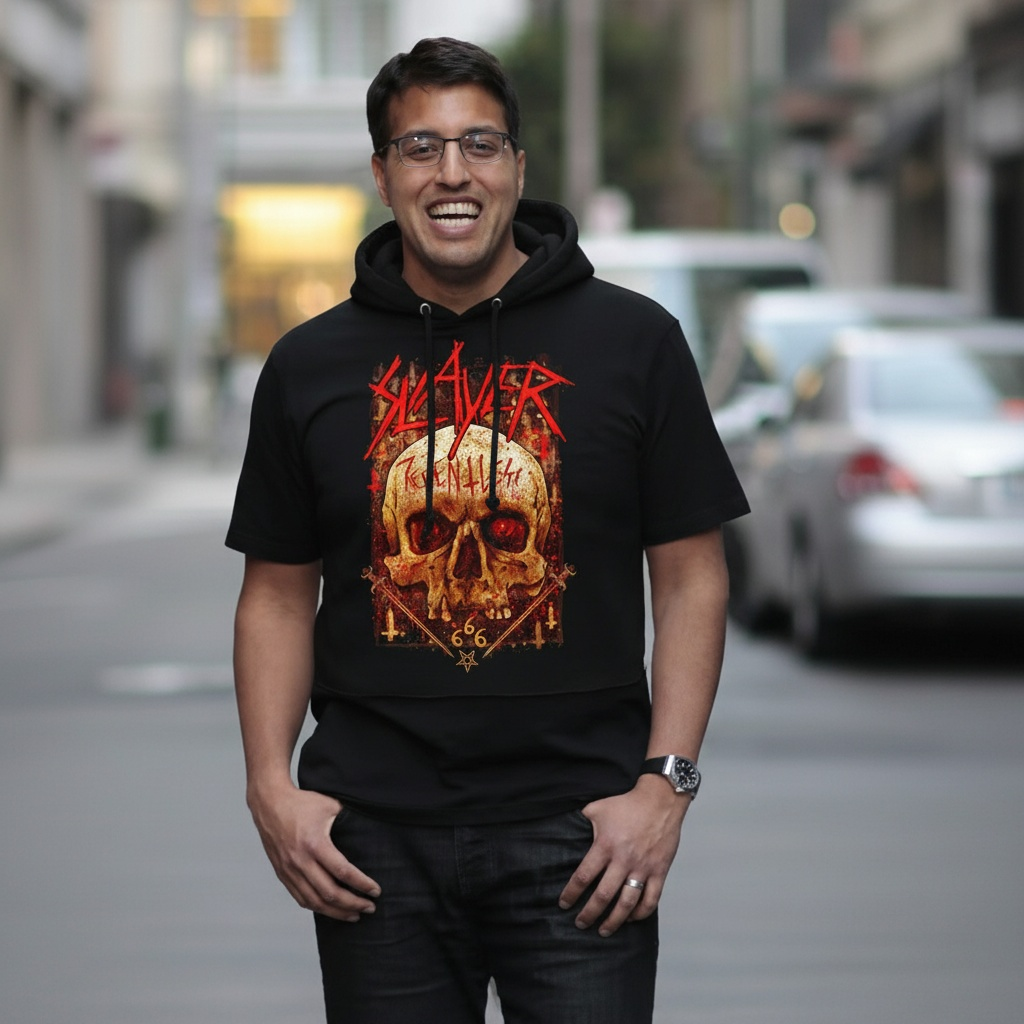
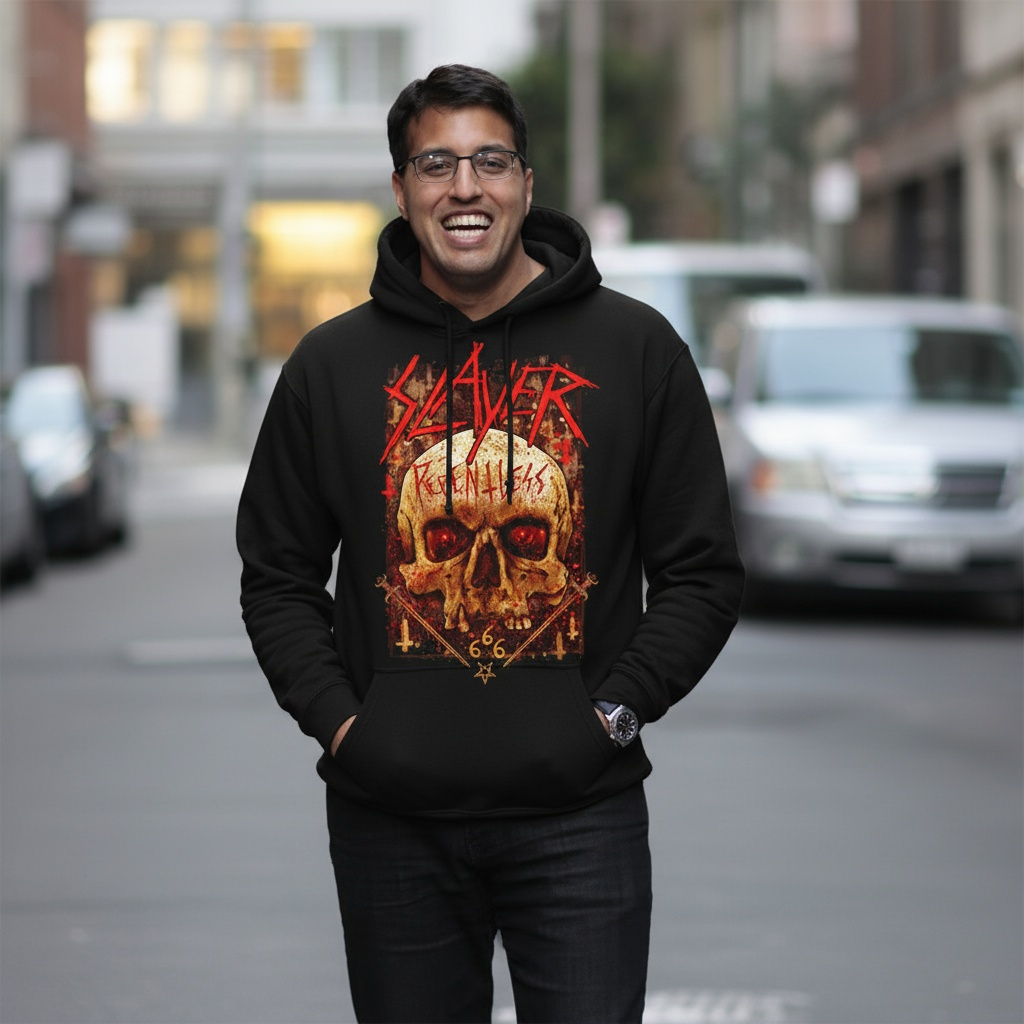
updates

diff --git a/src/App.js b/src/App.js
@@ -1801,6 +1801,10 @@ const AutobotApp = () => {
               basePrice: 120, 
               brand: 'Slayer',
               image: `${process.env.PUBLIC_URL}/Naveen-Slayer-Drop/naveen-slayer-hoodie.jpeg`,
+              images: [
+                `${process.env.PUBLIC_URL}/Naveen-Slayer-Drop/naveen-slayer-hoodie.jpeg`,
+                `${process.env.PUBLIC_URL}/Naveen-Slayer-Drop/magma lord hoodie product shot.webp`
+              ],
               size: 'Medium',
               available: true
             },
@@ -1809,6 +1813,10 @@ const AutobotApp = () => {
               basePrice: 120, 
               brand: 'Slayer',
               image: `${process.env.PUBLIC_URL}/Naveen-Slayer-Drop/naveen-slayer-hoodie-red.jpg`,
+              images: [
+                `${process.env.PUBLIC_URL}/Naveen-Slayer-Drop/naveen-slayer-hoodie-red.jpg`,
+                `${process.env.PUBLIC_URL}/Naveen-Slayer-Drop/eagloe marron hodie product shot.webp`
+              ],
               size: 'Medium',
               available: true
             },
@@ -1817,6 +1825,10 @@ const AutobotApp = () => {
               basePrice: 65, 
               brand: 'Slayer',
               image: `${process.env.PUBLIC_URL}/Naveen-Slayer-Drop/naveen-slayer-tank-top.jpeg`,
+              images: [
+                `${process.env.PUBLIC_URL}/Naveen-Slayer-Drop/naveen-slayer-tank-top.jpeg`,
+                `${process.env.PUBLIC_URL}/Naveen-Slayer-Drop/hell awaits product shot.webp`
+              ],
               size: 'Medium',
               available: true
             }
@@ -2135,8 +2147,21 @@ const AutobotApp = () => {
       const subtotalAmount = items.reduce((sum, product) => sum + product.price, 0);
       const shippingTotal = items.reduce((sum, product) => sum + (product.shipping || 8), 0);
       const taxTotal = items.reduce((sum, product) => sum + Math.round(product.price * 0.08), 0);
-      const blinkFee = Math.round(subtotalAmount * 0.03); // 3% Blink fee
-      const grandTotal = subtotalAmount + shippingTotal + taxTotal + blinkFee;
+      const serviceFee = Math.round(subtotalAmount * 0.03); // 3% service fee
+      const grandTotal = subtotalAmount + shippingTotal + taxTotal + serviceFee;
+      
+      // Check if any items are Naveen Slayer products for credit card message
+      const hasNaveenSlayerProducts = items.some(product => 
+        product.brand === 'Slayer' || 
+        product.title?.includes('MAGMA LORD') || 
+        product.title?.includes('Eagle Maroon') || 
+        product.title?.includes('Hell Awaits')
+      );
+      
+      // Add credit card message for Naveen Slayer group purchases
+      if (hasNaveenSlayerProducts) {
+        addAutobotMessage("Using credit card ending in **** 5732.");
+      }
       
       // Create order summary message
       let orderSummary = "🛍 **Your order is on its way.**\n\n";
@@ -2150,7 +2175,7 @@ const AutobotApp = () => {
       orderSummary += `Subtotal: $${subtotalAmount}\n`;
       orderSummary += `Shipping: $${shippingTotal}\n`;
       orderSummary += `Tax: $${taxTotal}\n`;
-      orderSummary += `Blink Fee (3%): $${blinkFee}\n`;
+      orderSummary += `Service Fee: $${serviceFee}\n`;
       orderSummary += `**Total: $${grandTotal}**\n\n`;
       orderSummary += `Estimated delivery: Tomorrow\n`;
       orderSummary += `Just message me if you need to make any changes. You have 3 minutes until the order is placed.`;
@@ -2160,7 +2185,8 @@ const AutobotApp = () => {
         subtotal: subtotalAmount,
         shipping: shippingTotal,
         tax: taxTotal,
-        blinkFee: blinkFee,
+        serviceFee: serviceFee,
+        silverFee: serviceFee, // Add silverFee for display compatibility
         total: grandTotal,
         timeLimit: 30,
         originalSearchResults: item.originalSearchResults || items,
@@ -4672,6 +4698,10 @@ const ChatMessage = ({ message, onPurchaseIntent, onConfirmPurchase, onUserRespo
                       shipping: 5,
                       brand: 'Slayer',
                       image: `${process.env.PUBLIC_URL}/Naveen-Slayer-Drop/naveen-slayer-hoodie.jpeg`,
+                      images: [
+                        `${process.env.PUBLIC_URL}/Naveen-Slayer-Drop/naveen-slayer-hoodie.jpeg`,
+                        `${process.env.PUBLIC_URL}/Naveen-Slayer-Drop/magma lord hoodie product shot.webp`
+                      ],
                       size: 'Medium',
                       available: true
                     },
@@ -4681,6 +4711,10 @@ const ChatMessage = ({ message, onPurchaseIntent, onConfirmPurchase, onUserRespo
                       shipping: 5,
                       brand: 'Slayer',
                       image: `${process.env.PUBLIC_URL}/Naveen-Slayer-Drop/naveen-slayer-hoodie-red.jpg`,
+                      images: [
+                        `${process.env.PUBLIC_URL}/Naveen-Slayer-Drop/naveen-slayer-hoodie-red.jpg`,
+                        `${process.env.PUBLIC_URL}/Naveen-Slayer-Drop/eagloe marron hodie product shot.webp`
+                      ],
                       size: 'Medium',
                       available: true
                     },
@@ -4690,6 +4724,23 @@ const ChatMessage = ({ message, onPurchaseIntent, onConfirmPurchase, onUserRespo
                       shipping: 5,
                       brand: 'Slayer',
                       image: `${process.env.PUBLIC_URL}/Naveen-Slayer-Drop/naveen-slayer-tank-top.jpeg`,
+                      images: [
+                        `${process.env.PUBLIC_URL}/Naveen-Slayer-Drop/naveen-slayer-tank-top.jpeg`,
+                        `${process.env.PUBLIC_URL}/Naveen-Slayer-Drop/hell awaits product shot.webp`
+                      ],
+                      size: 'Medium',
+                      available: true
+                    },
+                    {
+                      title: 'Hell Awaits T-shirt',
+                      price: 45,
+                      shipping: 5,
+                      brand: 'Slayer',
+                      image: `${process.env.PUBLIC_URL}/Naveen-Slayer-Drop/hell-awaits-tshirt.jpeg`,
+                      images: [
+                        `${process.env.PUBLIC_URL}/Naveen-Slayer-Drop/hell-awaits-tshirt.jpeg`,
+                        `${process.env.PUBLIC_URL}/Naveen-Slayer-Drop/Slayer_Hell_Awaits_Green_Oil_Washed_T-Shirt-product shot.webp`
+                      ],
                       size: 'Medium',
                       available: true
                     }
@@ -5250,6 +5301,8 @@ const WebViewInterface = ({ data, onClose, onPurchaseIntent }) => {
   const [selectedItems, setSelectedItems] = useState([]);
   const [undoTimers, setUndoTimers] = useState({}); // Track countdown timers for each item
   const [showProductShots, setShowProductShots] = useState({}); // Track which items are showing product shots
+  const [purchasedCount, setPurchasedCount] = useState(0); // Track total purchased items for Naveen Slayer
+  const [purchasedItems, setPurchasedItems] = useState([]); // Track all purchased items for group order
 
   // Toggle between regular image and product shot
   const toggleProductShot = (index) => {
@@ -5257,6 +5310,12 @@ const WebViewInterface = ({ data, onClose, onPurchaseIntent }) => {
       ...prev,
       [index]: !prev[index]
     }));
+  };
+
+  // Handle purchase made in Naveen Slayer products
+  const handlePurchaseMade = (itemData) => {
+    setPurchasedCount(prev => prev + 1);
+    setPurchasedItems(prev => [...prev, itemData]);
   };
 
   useEffect(() => {
@@ -5535,6 +5594,11 @@ const WebViewInterface = ({ data, onClose, onPurchaseIntent }) => {
                         productData={product}
                         hideNavigation={true}
                         compact={true}
+                        onClose={onClose}
+                        onPurchaseIntent={onPurchaseIntent}
+                        purchaseCount={purchasedCount}
+                        onPurchaseMade={handlePurchaseMade}
+                        purchasedItems={purchasedItems}
                       />
                     </div>
                   ))}

diff --git a/src/ProductComponentTest.js b/src/ProductComponentTest.js
@@ -1,7 +1,7 @@
 import React, { useState } from 'react';
 import { motion, AnimatePresence } from 'framer-motion';
 
-const ProductComponentTest = ({ productData = null, hideNavigation = false, compact = false }) => {
+const ProductComponentTest = ({ productData = null, hideNavigation = false, compact = false, onClose = null, purchaseCount = 1, onPurchaseIntent = null, onPurchaseMade = null, purchasedItems = [] }) => {
   const [selectedColor, setSelectedColor] = useState('black');
   const [currentImageIndex, setCurrentImageIndex] = useState(0);
   const [showSizeSelector, setShowSizeSelector] = useState(false);
@@ -106,7 +106,7 @@ const ProductComponentTest = ({ productData = null, hideNavigation = false, comp
       price: productData.price,
       shipping: productData.shipping || 0,
       images: {
-        default: [
+        default: productData.images || [
           productData.image,
           productData.image,
           productData.image
@@ -173,6 +173,19 @@ const ProductComponentTest = ({ productData = null, hideNavigation = false, comp
   const handlePurchase = () => {
     setIsPurchasing(true);
     setIsPurchased(true);
+    
+    // Notify parent component about the purchase
+    if (onPurchaseMade && productData) {
+      onPurchaseMade({
+        title: productData.title,
+        price: productData.price,
+        shipping: productData.shipping || 0,
+        brand: productData.brand,
+        image: productData.image,
+        size: selectedSize,
+        available: productData.available
+      });
+    }
     
     // Start 30-second countdown timer
     setUndoTimer(30);
@@ -1073,6 +1086,88 @@ const ProductComponentTest = ({ productData = null, hideNavigation = false, comp
         </motion.div>
       </div>
       </div>
+
+      {/* Orange "Back to Blink" tab - appears after any purchase */}
+      <AnimatePresence>
+        {purchaseCount > 0 && onClose && (
+          <motion.div
+            initial={{ scaleX: 0, y: 0 }}
+            animate={{ scaleX: 1, y: 0 }}
+            exit={{ scaleX: 0, y: 0 }}
+            transition={{
+              type: 'tween',
+              ease: [0.25, 0.46, 0.45, 0.94],
+              duration: 0.4
+            }}
+            style={{
+              position: 'fixed',
+              bottom: '143px', // Above Safari bar
+              left: '0px',
+              right: '0px',
+              zIndex: 1002 // Higher than Safari bar
+            }}
+          >
+            <motion.button
+              whileHover={{ scale: 1.02 }}
+              whileTap={{ scale: 0.98 }}
+              onClick={() => {
+                // Close web view first
+                onClose();
+                // Then trigger group purchase intent in WhatsApp after a short delay
+                if (onPurchaseIntent && purchasedItems.length > 0) {
+                  setTimeout(() => {
+                    if (purchasedItems.length === 1) {
+                      // Single item purchase
+                      onPurchaseIntent(purchasedItems[0]);
+                    } else {
+                      // Group purchase
+                      onPurchaseIntent({
+                        type: 'group-purchase',
+                        items: purchasedItems,
+                        count: purchasedItems.length,
+                        totalPrice: purchasedItems.reduce((sum, item) => sum + item.price + (item.shipping || 0), 0),
+                        timeLimit: 30, // 30 minutes
+                        originalSearchResults: purchasedItems // Pass the purchased items
+                      });
+                    }
+                  }, 300);
+                }
+              }}
+              style={{
+                width: '100%',
+                background: '#E3591D',
+                color: 'white',
+                border: 'none',
+                borderRadius: '0px',
+                padding: '16px 20px',
+                fontSize: '16px',
+                fontWeight: '600',
+                cursor: 'pointer',
+                display: 'flex',
+                alignItems: 'center',
+                justifyContent: 'center',
+                gap: '12px'
+              }}
+            >
+              Back to Blink
+              <div style={{
+                width: '24px',
+                height: '24px',
+                borderRadius: '50%',
+                backgroundColor: 'white',
+                display: 'flex',
+                alignItems: 'center',
+                justifyContent: 'center',
+                fontSize: '12px',
+                fontWeight: '700',
+                color: '#E3591D'
+              }}>
+                {purchaseCount}
+              </div>
+            </motion.button>
+          </motion.div>
+        )}
+      </AnimatePresence>
     </div>
   );
 };
